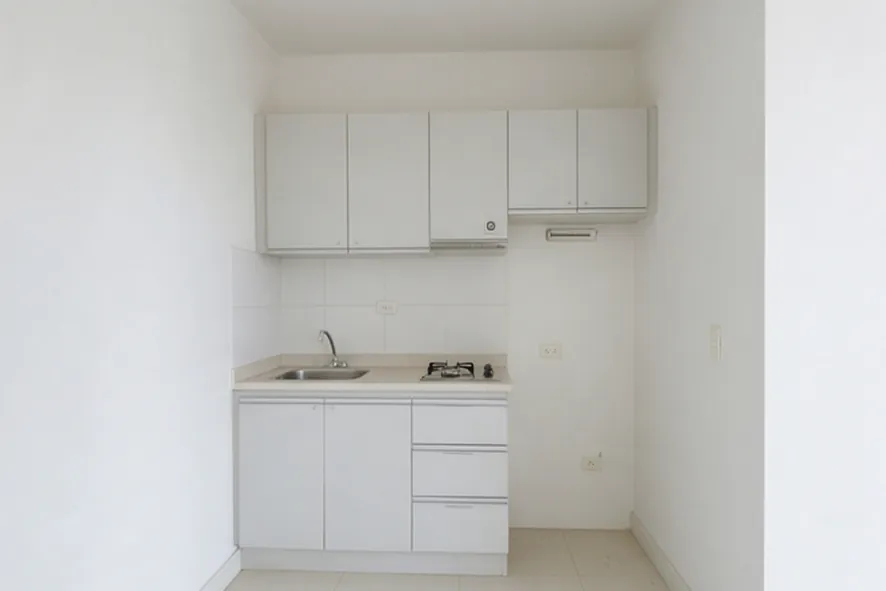
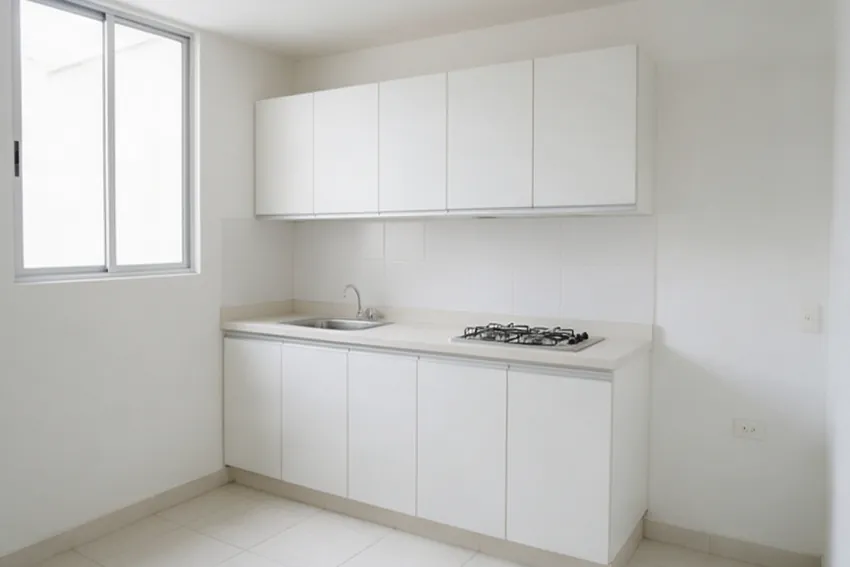
Reshoot four weak cells and give handover its own photographs
A third 3x2 render, 9 credits, over the same four names plus two new ones.

What was wrong:

- co-bath-finished   the WC read as standing inside the shower enclosure, the
                     screen's perspective disagreed with the wall behind it,
                     and the shower had no tray or kerb. The layout is now
                     stated explicitly - basin left, WC clear in the open
                     floor, shower in the far corner on a raised tray.
- co-hall-board      gibberish pseudo-lettering on the breaker labels, despite
                     two instructions forbidding text. Restated as a positive
                     requirement - the breakers are BLANK - because "no text"
                     is evidently read as a style note. Came back clean.
- co-kitchen-finished  wall cabinets in two misaligned groups; now one run.
- co-hall-finished   a white door on a white wall is a blank rectangle at
                     90px. Reframed with the meter cupboard open.

The two new cells fix a different problem: the handover column was showing the
finishes photograph of the same room, so a reader saw one picture twice across
two certificates. The sala and main bedroom are now photographed again from
another corner.

Also: the bathroom's ELECTRICAL cell was showing a plumbing photograph - a
category error rather than a reuse - and now shows conduit.

Gutters on this grid ran 20-22px and sat off-centre, one of them 912..932
[…]

diff --git a/src/content/enterprise/world.ts b/src/content/enterprise/world.ts
@@ -860,7 +860,7 @@ export const REQUIREMENTS: Requirement[] = [
   { room: "principal", trade: "electrical", stage: "rough-in", image: "co-bedroom-electrical", what: { en: "Bedroom circuits", es: "Circuitos de alcoba" } },
   { room: "alcoba2", trade: "electrical", stage: "rough-in", image: "co-bedroom-electrical", what: { en: "Bedroom circuits", es: "Circuitos de alcoba" } },
   { room: "cocina", trade: "electrical", stage: "rough-in", image: "co-kitchen-electrical", what: { en: "Appliance circuits", es: "Circuitos de electrodomésticos" } },
-  { room: "bano", trade: "electrical", stage: "rough-in", image: "co-bath-plumbing", what: { en: "Lighting and extractor", es: "Iluminación y extractor" } },
+  { room: "bano", trade: "electrical", stage: "rough-in", image: "co-bedroom-electrical", what: { en: "Lighting and extractor", es: "Iluminación y extractor" } },
   { room: "hall", trade: "electrical", stage: "rough-in", image: "co-hall-board", what: { en: "Board and feed", es: "Tablero y acometida" } },
 
   { room: "sala", trade: "finishes", stage: "finishes", image: "co-sala-finished", what: { en: "Floor, paint and skirting", es: "Piso, pintura y guardaescoba" } },
@@ -871,9 +871,9 @@ export const REQUIREMENTS: Requirement[] = [
   { room: "hall", trade: "finishes", stage: "finishes", image: "co-hall-finished", what: { en: "Door, frame and lock", es: "Puerta, marco y cerradura" } },
   { room: "balcon", trade: "finishes", stage: "finishes", image: "co-balcony-finished", what: { en: "Floor and handrail", es: "Piso y pasamanos" } },
 
-  { room: "sala", trade: "own", stage: "handover", image: "co-sala-finished", what: { en: "Condition at handover", es: "Estado de entrega" } },
-  { room: "principal", trade: "own", stage: "handover", image: "co-bedroom-finished", what: { en: "Condition at handover", es: "Estado de entrega" } },
-  { room: "alcoba2", trade: "own", stage: "handover", image: "co-bedroom-finished", what: { en: "Condition at handover", es: "Estado de entrega" } },
+  { room: "sala", trade: "own", stage: "handover", image: "co-sala-handover", what: { en: "Condition at handover", es: "Estado de entrega" } },
+  { room: "principal", trade: "own", stage: "handover", image: "co-bedroom-handover", what: { en: "Condition at handover", es: "Estado de entrega" } },
+  { room: "alcoba2", trade: "own", stage: "handover", image: "co-bedroom-handover", what: { en: "Condition at handover", es: "Estado de entrega" } },
   { room: "cocina", trade: "own", stage: "handover", image: "co-kitchen-finished", what: { en: "Appliances and meters", es: "Electrodomésticos y medidores" } },
   { room: "bano", trade: "own", stage: "handover", image: "co-bath-finished", what: { en: "Condition at handover", es: "Estado de entrega" } },
   { room: "hall", trade: "own", stage: "handover", image: "co-hall-finished", what: { en: "Keys and snag list", es: "Llaves y lista de pendientes" } },
